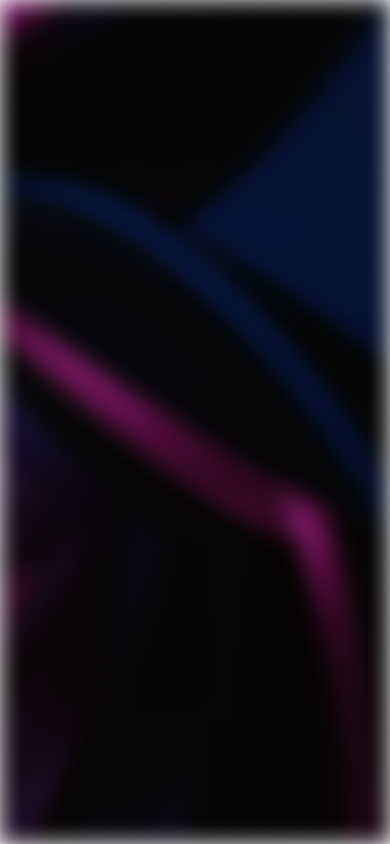
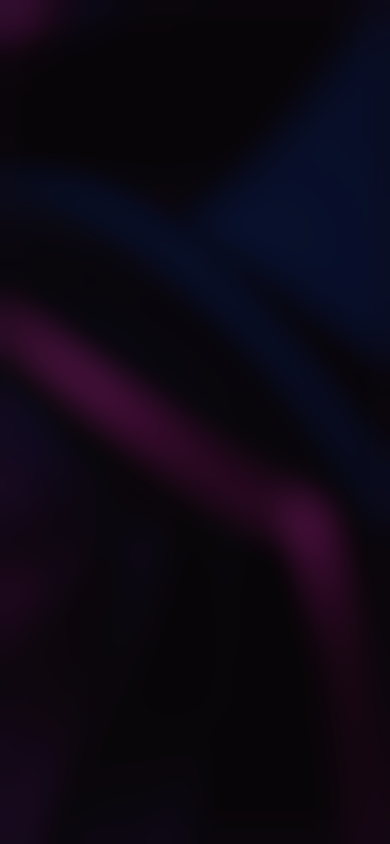
Altered the default bg image

Changed region(s): [[0.0, 0.0, 1.0, 1.0], [0.7077, 0.5853, 0.8615, 0.7085]]

diff --git a/html/welcome.html b/html/welcome.html
@@ -10,14 +10,14 @@
 <body>
     <p></p>
 
-    <div class="middlePage">
-        <h1>Welcome</h1>
-        <img src="../images/Crimson_logo_big.png" alt="Crimson Logo">
-    </div>
-    
-    <div class="buttonBox">
-        <button class="accentButton">Login / Register</button>
-        <button class="textButton">Continue as Guest</button>
-    </div>
+        <div class="middlePage">
+            <h1>Welcome</h1>
+            <img src="../images/Crimson_logo_big.png" alt="Crimson Logo">
+        </div>
+        
+        <div class="buttonBox">
+            <button class="accentButton">Login / Register</button>
+            <button class="textButton">Continue as Guest</button>
+        </div>
 </body>
 </html>

diff --git a/styles/welcome.css b/styles/welcome.css
@@ -1,9 +1,11 @@
 body{
     background-image: url('../images/Normal_background.png');
+    background-size: cover;
     display: flex;
     flex-direction: column;
     justify-content: space-between;
     height: 100dvh;
+    overflow: hidden;
 }
 
 .middlePage{
@@ -18,14 +20,18 @@ body{
 }
 
 .middlePage img{
-    width: 90%;
-    margin-top: -40px;
+    width: 100%;
+    margin-top: -12.5%;
 }
 
 .buttonBox{
     display: flex;
     flex-direction: column;
-    padding: 40px;
+    padding: 35px;
     padding-bottom: 20px;
     gap: 15px;
+}
+
+.buttonBox .accentButton{
+    padding-block: 20px;
 }
